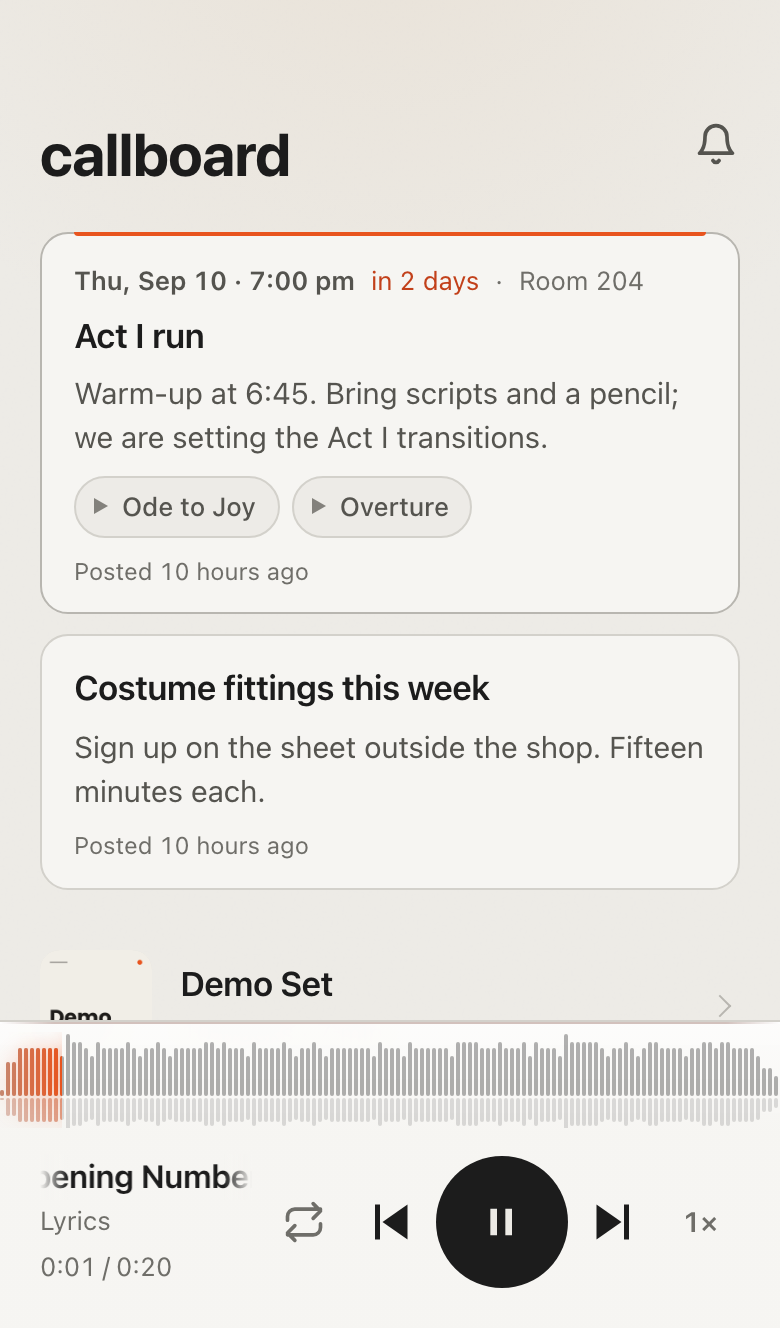
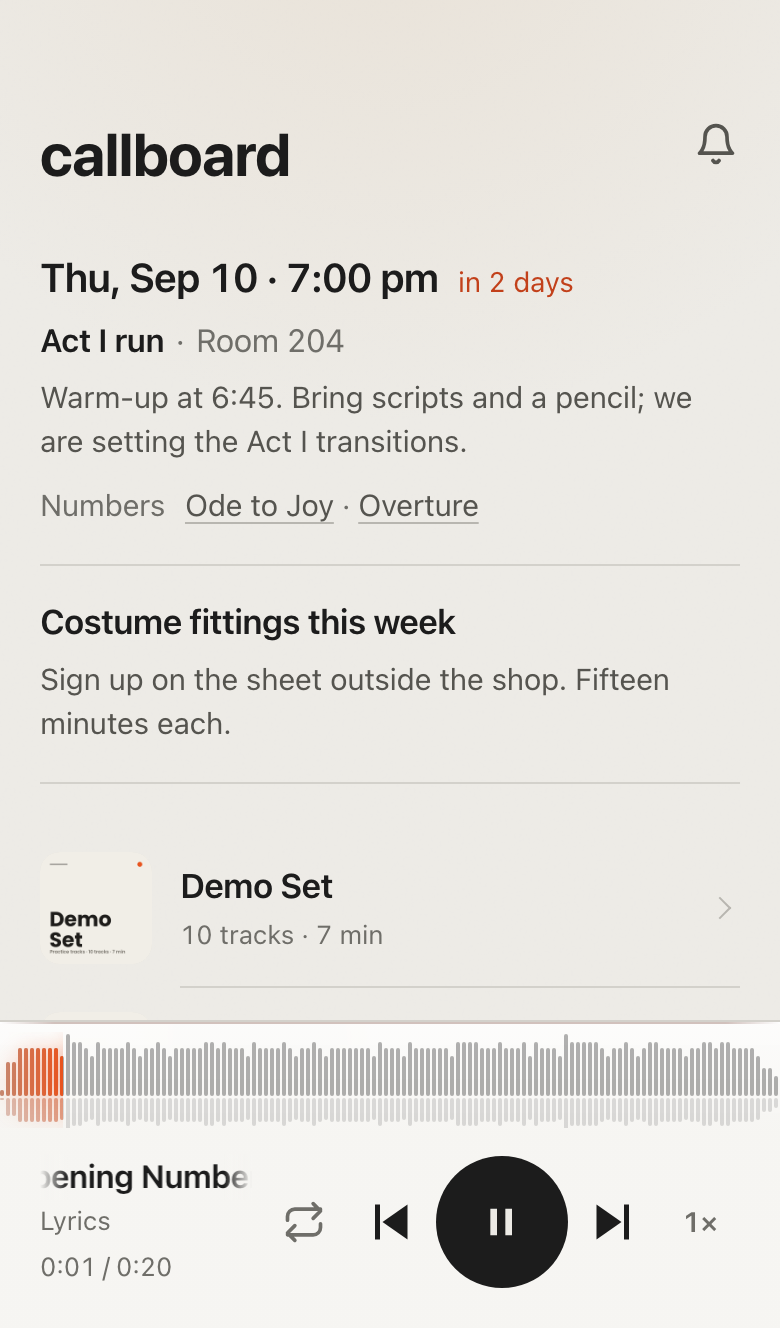
fix: the board is a list, not a stack of cards (#51)

diff --git a/assets/app.css b/assets/app.css
@@ -383,23 +383,24 @@ body:not(.has-deck) .a2hs{bottom:calc(var(--safe-b) + 12px)}
 #offline{border-color:var(--line);background:color-mix(in srgb,var(--surface-2) 55%,transparent);color:var(--ink-2);padding-left:14px;padding-right:14px} /* the quiet capsule: the same construction as Share, one rank below Play */
 #notify.is-done{color:var(--ink-2);pointer-events:auto}
 .masthead-row{display:flex;align-items:center;justify-content:space-between;gap:20px}
-/* The board: the next call pinned at the top with one accent rule, the way a card is pinned to cork */
-.board{display:grid;gap:10px;margin:14px 0 18px}
-.call{position:relative;background:var(--surface);border:1px solid var(--line);border-radius:14px;padding:14px 16px 12px;display:grid;gap:6px;animation:arrive var(--t-slow) var(--ease) both}
-.call.is-next{border-color:var(--line-strong)}
-.call.is-next::before{content:"";position:absolute;left:16px;right:16px;top:-1px;height:2px;background:var(--accent);border-radius:0 0 2px 2px}
-.call-when{margin:0;display:flex;align-items:baseline;gap:8px;flex-wrap:wrap;font-size:.8125rem;color:var(--ink-3);font-variant-numeric:tabular-nums}
-.call-when time{color:var(--ink-2);font-weight:600}
-.call-rel{color:var(--accent-text)}
-.call-where::before{content:"·";margin-right:8px;color:var(--ink-3)}
-.call-title{margin:0;font-size:1.0625rem;font-weight:600;letter-spacing:-.01em;text-wrap:pretty}
+/* The board: the same hairlines as the lists. The time leads, because the time is the call */
+.board{margin:6px 0 22px;border-bottom:1px solid var(--line)}
+.call{padding:16px 0 18px;display:grid;gap:6px;animation:arrive var(--t-slow) var(--ease) both}
+.call+.call{border-top:1px solid var(--line)}
+.call-when{margin:0;display:flex;align-items:baseline;gap:10px;flex-wrap:wrap;font-variant-numeric:tabular-nums}
+.call-when time{font-size:1.0625rem;font-weight:600;letter-spacing:-.01em;color:var(--ink)}
+.call.is-next .call-when time{font-size:1.25rem}
+.call-rel{font-size:.875rem;color:var(--accent-text)}
+.call-title{margin:0;font-size:1rem;font-weight:600;letter-spacing:-.01em;color:var(--ink);text-wrap:pretty}
+.call:not(:has(.call-when)) .call-title{font-size:1.0625rem}
+.call-where{font-weight:400;color:var(--ink-3)}
+.call-where::before{content:"·";margin:0 6px 0 2px}
 .call-body{color:var(--ink-2);font-size:.9375rem;line-height:1.45;text-wrap:pretty}
 .call-body p{margin:0 0 6px}.call-body p:last-child{margin:0}
-.call-numbers{margin:2px 0 0;display:flex;flex-wrap:wrap;gap:6px}
-.call-numbers a{display:inline-flex;align-items:center;gap:7px;border:1px solid var(--line);border-radius:999px;padding:5px 11px 5px 9px;font-size:.8125rem;font-weight:500;color:var(--ink-2);text-decoration:none;background:color-mix(in srgb,var(--surface-2) 45%,transparent)}
-.call-numbers a::before{content:"";width:0;height:0;border-left:7px solid currentColor;border-top:4.5px solid transparent;border-bottom:4.5px solid transparent;opacity:.7} /* a small play mark: tapping one starts the number */
-.call-numbers a:active{background:var(--surface-2)}
-.call-meta{margin:2px 0 0;font-size:.75rem;color:var(--ink-3)}
+.call-numbers{margin:2px 0 0;font-size:.9375rem;color:var(--ink-3);line-height:1.6}
+.call-numbers-label{margin-right:6px}
+.call-numbers a{color:var(--ink-2);text-decoration:underline;text-underline-offset:3px;text-decoration-color:var(--line-strong);transition:color var(--t),text-decoration-color var(--t)}
+.call-numbers a:hover{color:var(--ink);text-decoration-color:var(--ink)}
 .masthead-text{min-width:0}
 .bell{margin:0 -8px 0 0;position:relative;flex:none;width:40px;height:40px;border:0;background:transparent;color:var(--ink-2)} /* a toolbar glyph beside the title, not a button on its own */
 .bell svg{width:22px;height:22px}

diff --git a/templates/board.php b/templates/board.php
@@ -15,29 +15,25 @@ if ( ! $callboard_calls ) {
 <section class="board" aria-label="<?php esc_attr_e( 'Callboard', 'callboard' ); ?>">
 	<?php foreach ( $callboard_calls as $callboard_c ) : ?>
 	<article class="call<?php echo $callboard_c['is_next'] ? ' is-next' : ''; ?>">
-		<?php if ( $callboard_c['when'] || $callboard_c['where'] ) : ?>
-		<p class="call-when">
-			<?php if ( $callboard_c['when'] ) : ?>
-			<time datetime="<?php echo esc_attr( $callboard_c['when_iso'] ); ?>"><?php echo esc_html( $callboard_c['when_text'] ); ?></time>
-			<span class="call-rel" data-when="<?php echo esc_attr( $callboard_c['when_iso'] ); ?>"><?php echo esc_html( $callboard_c['relative'] ); ?></span>
-			<?php endif; ?>
-			<?php if ( $callboard_c['where'] ) : ?>
-			<span class="call-where"><?php echo esc_html( $callboard_c['where'] ); ?></span>
-			<?php endif; ?>
-		</p>
+		<?php if ( $callboard_c['when'] ) : ?>
+		<p class="call-when"><time datetime="<?php echo esc_attr( $callboard_c['when_iso'] ); ?>"><?php echo esc_html( $callboard_c['when_text'] ); ?></time> <span class="call-rel" data-when="<?php echo esc_attr( $callboard_c['when_iso'] ); ?>"><?php echo esc_html( $callboard_c['relative'] ); ?></span></p>
 		<?php endif; ?>
-		<h2 class="call-title"><?php echo esc_html( $callboard_c['title'] ); ?></h2>
+		<h2 class="call-title"><?php echo esc_html( $callboard_c['title'] ); ?>
+		<?php
+		if ( $callboard_c['where'] ) :
+			?>
+			<span class="call-where"><?php echo esc_html( $callboard_c['where'] ); ?></span><?php endif; ?></h2>
 		<?php if ( $callboard_c['body'] ) : ?>
 		<div class="call-body"><?php echo $callboard_c['body']; // phpcs:ignore WordPress.Security.EscapeOutput.OutputNotEscaped -- passed through wp_kses_post() in Calls::build(). ?></div>
 		<?php endif; ?>
 		<?php if ( $callboard_c['numbers'] ) : ?>
-		<p class="call-numbers" aria-label="<?php esc_attr_e( 'Numbers being worked', 'callboard' ); ?>">
-			<?php foreach ( $callboard_c['numbers'] as $callboard_n ) : ?>
-			<a href="<?php echo esc_url( home_url( '/' . $callboard_n['slug'] . '/' ) ); ?>" data-track="<?php echo (int) $callboard_n['index']; ?>" aria-label="<?php echo esc_attr( sprintf( /* translators: 1: track title, 2: set name. */ __( 'Play %1$s from %2$s', 'callboard' ), $callboard_n['title'], $callboard_n['set'] ) ); ?>"><?php echo esc_html( $callboard_n['title'] ); ?></a>
+		<p class="call-numbers"><span class="call-numbers-label"><?php esc_html_e( 'Numbers', 'callboard' ); ?></span>
+			<?php foreach ( $callboard_c['numbers'] as $callboard_k => $callboard_n ) : ?>
+				<?php echo $callboard_k ? '<span aria-hidden="true">· </span>' : ''; ?><a href="<?php echo esc_url( home_url( '/' . $callboard_n['slug'] . '/' ) ); ?>" data-track="<?php echo (int) $callboard_n['index']; ?>" aria-label="<?php echo esc_attr( sprintf( /* translators: 1: track title, 2: set name. */ __( 'Play %1$s from %2$s', 'callboard' ), $callboard_n['title'], $callboard_n['set'] ) ); ?>"><?php echo esc_html( $callboard_n['title'] ); ?></a>
 			<?php endforeach; ?>
 		</p>
 		<?php endif; ?>
-		<p class="call-meta"><?php echo esc_html( $callboard_c['posted'] ); ?></p>
 	</article>
 	<?php endforeach; ?>
 </section>
+
